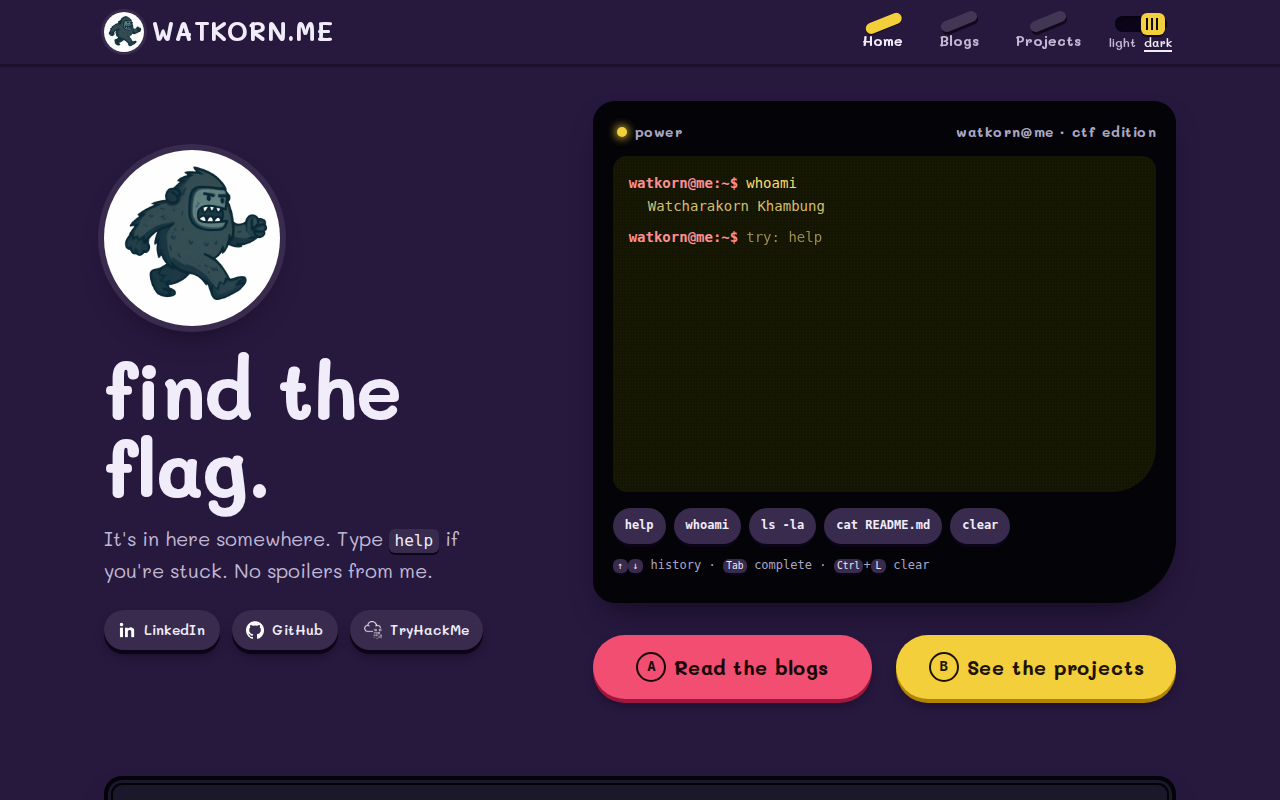
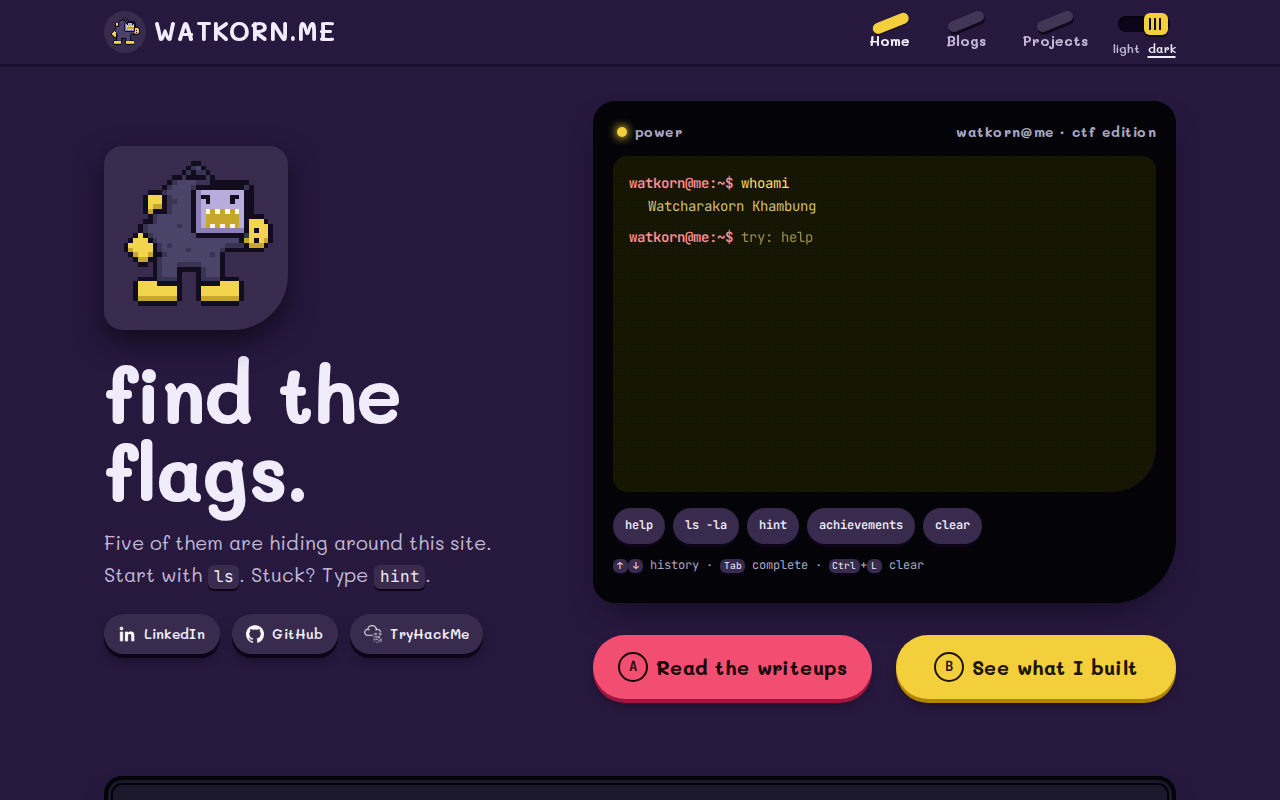
Rewrite site copy and the "My Website" case study
- New UI copy across home (dare, About, A/B keys, cat README.md,
  blogs/projects output, command-not-found), Achievements, Blogs,
  Projects, 404, footer credit, hints, meta descriptions and noscript;
  "find the flag." -> "find the flags." (also in the OG image)
- "My Website" project rewritten as a case study: goals, pipeline,
  security (A+, strict CSP, 0 vulns), the CTF, design, measured
  numbers, lessons
- README screenshots recaptured with the pixel yeti and Mali loaded

Footer quote "Flags don't hide..." kept (brand commitment in PRODUCT.md).

Claude-Session: https://claude.ai/code/session_01KYM9UMdoA1ZJFFUWYDgszJ

diff --git a/src/pages/Home.jsx b/src/pages/Home.jsx
@@ -258,8 +258,11 @@ export default function Home() {
 
     // cat README.md
     if (/^cat\s+README\.md$/i.test(input)) {
-      return `Hi, I'm Watcharakorn Khambung!
-This is my portfolio site. I build tools, write CTF writeups, and explore cybersecurity.`;
+      return `# watkorn
+security hobbyist · CTF player · tool builder
+
+5 flags are hidden on this site. flag.txt is the free one.
+next: hint · achievements · ls blogs`;
     }
 
     // simple commands
@@ -278,8 +281,8 @@ This is my portfolio site. I build tools, write CTF writeups, and explore cybers
     if (lc === "date") return new Date().toString();
     if (lc === "help")
       return "Available commands: whoami, pwd, ls, ls -la, cat README.md, cat flag.txt, date, echo, help, clear, projects, blogs";
-    if (lc === "projects") return "Cybersecurity-Tools  CTF-Challenges  Web-Apps";
-    if (lc === "blogs") return "CTF-Writeups  Security-Tips  Tutorials";
+    if (lc === "projects") return `${projects.map((p) => p.slug).join("  ")}\n(open <name> to read one)`;
+    if (lc === "blogs") return `${[...blogs].reverse().map((b) => b.slug).join("  ")}\n(open <name> to read one)`;
 
     // composite simple "&&" support
     if (input.includes("&&")) {
@@ -291,7 +294,7 @@ This is my portfolio site. I build tools, write CTF writeups, and explore cybers
       return outs.join("\n");
     }
 
-    return `Command not found: ${input}`;
+    return `watkorn: command not found: ${input.split(/\s+/)[0]}  (try: help)`;
   };
 
   const runCommand = (cmdText) => {
@@ -377,10 +380,10 @@ This is my portfolio site. I build tools, write CTF writeups, and explore cybers
         <div className="player">
           <Yeti bg="screen" walk={Boolean(achievement)} className="player__avatar" title="watkorn's yeti mascot" />
           <h1 id="home-title" className="player__title">
-            find the flag.
+            find the flags.
           </h1>
           <p className="player__dare">
-            It's in here somewhere. Type <kbd>help</kbd> if you're stuck. No spoilers from me.
+            Five of them are hiding around this site. Start with <kbd>ls</kbd>. Stuck? Type <kbd>hint</kbd>.
           </p>
           <ul className="socials" role="list">
             {socials.map((s) => (
@@ -474,11 +477,11 @@ This is my portfolio site. I build tools, write CTF writeups, and explore cybers
           <nav className="ab-row" aria-label="Continue">
             <Link to="/blogs" className="key key--a key--lg">
               <span className="key__badge">A</span>
-              Read the blogs
+              Read the writeups
             </Link>
             <Link to="/projects" className="key key--b key--lg">
               <span className="key__badge">B</span>
-              See the projects
+              See what I built
             </Link>
           </nav>
         </div>
@@ -490,9 +493,9 @@ This is my portfolio site. I build tools, write CTF writeups, and explore cybers
           <h2 id="about-title" className="dialog__name">
             watkorn
           </h2>
-          <p>I love working on cybersecurity projects just for fun and to challenge myself.</p>
-          <p>I build tools and code to try things out, learn new stuff, and solve problems I run into.</p>
-          <p>It's all about experimenting, testing, and improving my skills while having fun.</p>
+          <p>hey, I'm Watcharakorn. Online I'm watkorn. I break things for fun: CTFs, TryHackMe rooms, and whatever tool I'm building this week.</p>
+          <p>When something finally clicks, I write it up here so future-me (and you) can skip the painful part.</p>
+          <p>Want to say hi? LinkedIn and GitHub are up top. Or skip the small talk and go find the flags.</p>
         </div>
         <span className="dialog__next" aria-hidden="true">
           <Icon name="caret" size={18} />

diff --git a/src/pages/Achievements.jsx b/src/pages/Achievements.jsx
@@ -17,13 +17,13 @@ export default function Achievements() {
     e.preventDefault();
     if (!flag.trim()) return;
     const level = await checkFlag(flag);
-    if (!level) setStatus({ kind: "err", text: "Nope, that's not a flag (yet)." });
+    if (!level) setStatus({ kind: "err", text: "Nope, not a flag. Yet." });
     else if (solved.includes(level.id)) setStatus({ kind: "info", text: `Already solved: ${level.title}.` });
     else {
       const next = [...solved, level.id];
       setSolved(next);
       saveSolved(next);
-      setStatus({ kind: "ok", text: `Correct! ${level.title} (+${level.points} pts).` });
+      setStatus({ kind: "ok", text: `Correct! ${level.title}, +${level.points} pts. Nice.` });
       setFlag("");
     }
   };
@@ -36,7 +36,7 @@ export default function Achievements() {
     resetSolved();
     setSolved([]);
     setArmReset(false);
-    setStatus({ kind: "info", text: "Progress reset. Good luck, again." });
+    setStatus({ kind: "info", text: "Progress wiped. Fresh start." });
   };
 
   const done = solved.length === LEVELS.length;
@@ -45,13 +45,13 @@ export default function Achievements() {
     <PageWrapper
       title="Achievements"
       path="/achievements"
-      description="Five flags hidden around watkorn.me. How many can you find?"
+      description="Five flags are hidden around watkorn.me. How many can you find?"
     >
       <header className="page-head ach-head">
         <div>
           <h1 className="page-head__title">Achievements</h1>
           <p className="page-head__lede">
-            Five flags are hidden around this site. Find them, then submit them here or in the terminal with{" "}
+            Five flags are hiding around this site. Found one? Submit it here, or in the terminal with{" "}
             <kbd>submit</kbd>.
           </p>
         </div>
@@ -62,7 +62,7 @@ export default function Achievements() {
         <strong>
           {score(solved)}/{TOTAL_POINTS} pts
         </strong>{" "}
-        · {solved.length} of {LEVELS.length} flags {done && "· all found, you're a legend"}
+        · {solved.length} of {LEVELS.length} flags {done && "· all five. legend."}
       </p>
 
       <form className="ach-submit" onSubmit={onSubmit}>
@@ -126,7 +126,7 @@ export default function Achievements() {
           {armReset ? "Tap again to reset" : "Reset progress"}
         </button>
       </div>
-      <p className="ach-note">Progress is saved only in this browser. Nothing is sent anywhere.</p>
+      <p className="ach-note">Your progress lives only in this browser. Nothing gets sent anywhere.</p>
     </PageWrapper>
   );
 }

diff --git a/src/ctf/ctf.js b/src/ctf/ctf.js
@@ -7,35 +7,35 @@ export const LEVELS = [
     id: "warmup",
     title: "Warm-up",
     points: 10,
-    hint: "Some files are just lying around in the home folder. Try ls.",
+    hint: "Some files are just lying around in the home folder. Try ls, then cat.",
[1 lines of base64/hex data omitted]
   },
   {
     id: "dotfiles",
     title: "Hidden in plain sight",
     points: 20,
-    hint: "ls shows files. ls -la shows *all* files. Then decode what you find.",
+    hint: "ls shows files. ls -la shows *all* of them. What you find there is encoded, not encrypted.",
[1 lines of base64/hex data omitted]
   },
   {
     id: "source",
     title: "View source",
     points: 30,
-    hint: "The page you see isn't the whole page. Ctrl+U, and remember Caesar liked 13.",
+    hint: "The page you see isn't the whole page. Try Ctrl+U, and remember Caesar liked 13.",
[1 lines of base64/hex data omitted]
   },
   {
     id: "robots",
     title: "Robots only",
     points: 40,
-    hint: "Every well-behaved crawler reads one file before anything else.",
+    hint: "Every well-behaved crawler reads one file before anything else. Be badly behaved.",
[1 lines of base64/hex data omitted]
   },
   {
     id: "sprite",
     title: "Pixel secrets",
     points: 50,
-    hint: "The yeti is an SVG. Open it on its own and look past the pixels.",
+    hint: "The yeti is an SVG. Open the file on its own and look past the pixels.",
[1 lines of base64/hex data omitted]
   },
 ];

diff --git a/src/pages/Blogs.jsx b/src/pages/Blogs.jsx
@@ -31,10 +31,10 @@ export default function Blogs() {
   const pick = (f) => setParams(f ? { tag: f } : {}, { replace: true });
 
   return (
-    <PageWrapper path="/blogs" title="Blogs" description="CTF writeups, notes, and things I broke on purpose.">
+    <PageWrapper path="/blogs" title="Blogs" description="CTF writeups and notes from things I broke on purpose. Spoilers inside.">
       <header className="page-head">
         <h1 className="page-head__title">Blogs</h1>
-        <p className="page-head__lede">Writeups, notes, and things I broke on purpose. Spoilers inside, obviously.</p>
+        <p className="page-head__lede">CTF writeups and notes from things I broke on purpose. Spoilers inside, obviously.</p>
       </header>
 
       {FILTERS.length > 0 && (
@@ -54,7 +54,7 @@ export default function Blogs() {
         groups={groups}
         basePath="/blogs"
         idPrefix="year"
-        emptyText={active ? `Nothing tagged "${active}" yet.` : "No posts yet. The first writeup is loading…"}
+        emptyText={active ? `Nothing tagged "${active}" yet.` : "No posts yet. The first writeup is still compiling."}
       />
     </PageWrapper>
   );

diff --git a/index.html b/index.html
@@ -9,7 +9,7 @@
     <meta property="og:image" content="https://watkorn.me/og.png" />
     <meta property="og:image:width" content="1200" />
     <meta property="og:image:height" content="630" />
-    <meta property="og:image:alt" content="The watkorn pixel yeti next to the words find the flag" />
+    <meta property="og:image:alt" content="The watkorn pixel yeti next to the words find the flags" />
     <meta name="twitter:card" content="summary_large_image" />
     <link rel="icon" href="/favicon.svg" type="image/svg+xml" />
     <link rel="icon" href="/favicon-32.png" sizes="32x32" type="image/png" />
@@ -24,7 +24,7 @@
   </head>
   <body>
     <!-- note to self (level 3): jngxbea{i13j_f0hep3_o3s0e3_l0h_u4px}  ·  rot13, obviously -->
-    <noscript>This site needs JavaScript to run the terminal. Sorry, no flag without it.</noscript>
+    <noscript>The terminal (and all five flags) need JavaScript. The writeups read fine without it.</noscript>
     <div id="root"><!--app-html--></div>
     <script type="module" src="/src/index.jsx"></script>
   </body>

diff --git a/src/components/PageWrapper.jsx b/src/components/PageWrapper.jsx
@@ -3,7 +3,8 @@ import React from "react";
 import { Helmet } from "react-helmet-async";
 
 export const SITE_URL = "https://watkorn.me";
-const DEFAULT_DESC = "Watcharakorn Khambung (watkorn): CTF writeups, security tools, and a terminal with a flag in it.";
+const DEFAULT_DESC =
+  "Watcharakorn Khambung (watkorn): CTF writeups, security tools, and a terminal with five flags hidden in it.";
 
 // path = route without trailing slash; canonical URLs use the trailing-slash form GitHub Pages serves
 export default function PageWrapper({
@@ -15,7 +16,7 @@ export default function PageWrapper({
   children,
   className = "",
 }) {
-  const fullTitle = title && title !== "WATKORN.ME" ? `${title} · WATKORN.ME` : "WATKORN.ME · find the flag";
+  const fullTitle = title && title !== "WATKORN.ME" ? `${title} · WATKORN.ME` : "WATKORN.ME · find the flags";
   const desc = description || DEFAULT_DESC;
   const url = path != null ? `${SITE_URL}${path === "/" ? "/" : `${path}/`}` : null;
   return (

diff --git a/src/pages/Projects.jsx b/src/pages/Projects.jsx
@@ -15,16 +15,16 @@ const groups = sortedCategories.map(({ category, data }) => ({
 
 export default function Projects() {
   return (
-    <PageWrapper path={"/projects"} title="Projects" description="Tools and side projects by watkorn.">
+    <PageWrapper path={"/projects"} title="Projects" description="Security tools and side projects by watkorn, built to learn how things work (and break).">
       <header className="page-head">
         <h1 className="page-head__title">Projects</h1>
-        <p className="page-head__lede">Tools I built to try things out. Some useful, all fun.</p>
+        <p className="page-head__lede">Stuff I built to learn how things work, and how they break. Some useful, all fun.</p>
       </header>
       <GroupedIndex
         groups={groups}
         basePath="/projects"
         idPrefix="category"
-        emptyText="Inventory empty. Projects coming soon."
+        emptyText="Inventory empty. Something's in the forge."
       />
     </PageWrapper>
   );

diff --git a/src/pages/NotFound.jsx b/src/pages/NotFound.jsx
@@ -13,15 +13,15 @@ export default function NotFound() {
       <div className="bezel">
         <div className="lcd lcd--center">
           <p className="lcd__big">GAME OVER</p>
-          <p>404: this page is not in the cartridge.</p>
+          <p>404: this level isn't in the cartridge.</p>
         </div>
       </div>
       <div className="button-row">
         <Link to="/" className="key key--a">
-          Continue from Home
+          Back to start
         </Link>
         <Link to="/blogs" className="key">
-          Read the blogs
+          Read the writeups
         </Link>
       </div>
     </PageWrapper>

diff --git a/src/components/DetailTemplate.jsx b/src/components/DetailTemplate.jsx
@@ -117,7 +117,7 @@ export default function DetailTemplate({ meta, type, allMeta }) {
       .then((data) => setContent(data))
       .catch((err) => {
         console.error("Failed to load content:", err);
-        setError("Couldn't load this page. Check your connection and refresh.");
+        setError("This page didn't load. Check your connection and refresh.");
         setContent(null);
       })
       .finally(() => setLoading(false));

diff --git a/src/components/Footer.jsx b/src/components/Footer.jsx
@@ -10,7 +10,7 @@ export default function Footer() {
         {quote}
       </p>
       <p className="site-footer__copy">
-        &copy; {new Date().getFullYear()} Watcharakorn Khambung. Built static, served from GitHub Pages.
+        &copy; {new Date().getFullYear()} Watcharakorn Khambung. Static site, no trackers, built in the open on GitHub.
       </p>
     </footer>
   );

diff --git a/brand/build.py b/brand/build.py
@@ -192,7 +192,7 @@ def og_image():
     d = ImageDraw.Draw(img)
     font = mali_bold()
     d.text((600, 150), "find the", font=ImageFont.truetype(font, 104), fill=hex_rgba(ink))
-    d.text((600, 262), "flag.", font=ImageFont.truetype(font, 104), fill=hex_rgba(ink))
+    d.text((600, 262), "flags.", font=ImageFont.truetype(font, 104), fill=hex_rgba(ink))
     d.text((604, 408), "CTF writeups · security tools", font=ImageFont.truetype(font, 34), fill=hex_rgba(ink))
     d.text((604, 470), "WATKORN.ME", font=ImageFont.truetype(font, 40), fill=hex_rgba(berry))
     img.convert("RGB").save(ROOT / "public/og.png", optimize=True)

diff --git a/content/projects/create-website.md b/content/projects/create-website.md
@@ -1,38 +1,78 @@
 ---
 title: My Website
-description: Step-by-step guide to building a portfolio website
+description: "watkorn.me: a static, A+-hardened portfolio that is also a tiny CTF. How it's built, secured and shipped."
 category: Web
 order: 1
 github: https://github.com/watkorn/watkorn.me
 screenshots:
   - src: /screenshot_light.png
-    alt: Light theme screenshot
-    label: Light Theme
+    alt: Home page in the light theme, with the pixel yeti, the "find the flags." dare and the LCD terminal
+    label: Light theme
   - src: /screenshot_dark.png
-    alt: Dark theme screenshot
-    label: Dark Theme
+    alt: Home page in the dark theme, with the grape console shell and the backlit terminal
+    label: Dark theme
 ---
 
-## Why This Website?
+This site is my home for CTF writeups and side projects, and a challenge in its own right. The home page is a terminal with **five flags** hidden around the site. If you're a security person, the fastest way to get to know me is to try to break my website.
 
-A home for my CTF writeups and side projects, and a small challenge in its own right:
-the home page is a terminal with a flag hidden in it.
+## Goals
 
-## Key Features
+1. **Play first, read second, hire third.** The terminal is the front door. Writeups come next, then projects and contact links.
+2. **Writing a post should never mean touching layout code.** A writeup is a Markdown file and a `git push`.
+3. **Keep the attack surface close to zero.** No server, no database, no third-party scripts.
 
-- A playable terminal with history, Tab completion and quick commands on phones
-- Blogs and projects written as Markdown files, built into a static site
-- "Handheld Quest" design with light and dark themes, from 320 px phones up to wide desktops
-- Syntax highlighting, copy buttons, reading time and a reading progress bar on posts
-- Deployed by GitHub Actions to GitHub Pages, with a strict Content-Security-Policy
+## How it works
 
-## Design Choices
+```
+content/*.md  ─▶  scripts/content.mjs  ─▶  JSON  ─▶  Vite + React
+                                                   │
+                     prerender every route to HTML ◀┘  (+ sitemap, RSS, CSP)
+                                                   │
+          GitHub Actions: build → Playwright tests → publish to gh-pages
+                                                   │
+                  GitHub Pages  ◀──  Cloudflare (TLS, HSTS, security headers)
+```
 
-Built with React and Tailwind CSS. Every colour, font and spacing value comes from one set of design tokens,
-so the light and dark themes stay consistent. The site is fully static: no server, no database,
-and no third-party scripts.
+- **Content:** blog posts and projects are Markdown with frontmatter. At build time, [marked](https://marked.js.org/) and highlight.js turn them into HTML, so no Markdown parser ships to the browser. Drafts are visible in dev and excluded from production.
+- **Pages:** React 18 + React Router 7 on Vite. Every route is **prerendered to its own HTML file**, so posts are indexable and link previews in Discord or LINE show a real title and image. React then takes over for the interactive bits.
+- **Deploys:** every push to `main` builds the site and runs **Playwright smoke tests on desktop and mobile**. Only if they pass does it publish the static files to the `gh-pages` branch. A failing test means the live site doesn't change.
 
-## Next Steps
+## Security
 
-- More CTF writeups
-- More tools in the projects section
+Being a security person's website, it had better hold up:
+
+- **A+ on [securityheaders.com](https://securityheaders.com/?q=watkorn.me&followRedirects=on).** Cloudflare adds HSTS, `X-Frame-Options`, `Referrer-Policy`, `Permissions-Policy` and COOP, which GitHub Pages can't send.
+- **A strict Content-Security-Policy** on every page: `script-src 'self'` and `style-src` without `'unsafe-inline'`. So no inline scripts **or** inline styles, and a test fails the build if any page triggers a CSP violation.
+- **No source maps in production.**
+- **Zero known vulnerable dependencies:** moving from Create React App to Vite took `npm audit` from 62 findings to 0. Dependabot keeps it that way, and every GitHub Action is pinned to a commit SHA.
+- **Visitor input is never rendered as HTML.** All Markdown is rendered at build time from files in the repo.
+
+## The CTF inside
+
+The terminal speaks a little shell: `ls -la`, `cd`, `cat`, `open <post>`, `hint`, `submit <flag>`, with history and Tab completion. Five levels (10 to 50 points) are hidden in places a player should learn to look. Flags are checked by **SHA-256 hash only**, so reading the JavaScript doesn't hand over the answers. Progress lives on the [achievements page](/achievements), stored only in your browser.
+
+A test proves every flag is reachable on the built site and matches its hash, so I can't accidentally ship an unsolvable level.
+
+## Design: Handheld Quest
+
+The look is a pocket game console. The page is the console's plastic shell: dandelion yellow by day, grape at night. Content sits on "screens" with the handheld's big bottom-right curve, the terminal is an LCD, and every button is a rubber key that physically presses down.
+
+The mascot is a **32×32 pixel yeti** drawn in code. It has 8 recolourable layers, a 2-frame walk cycle, and a Logo Lab for exporting it in any palette. Everything comes from one set of design tokens, so both themes stay consistent. The site works from 320 px phones up. I used the [Hallmark](https://github.com/Nutlope/hallmark) and [Impeccable](https://github.com/pbakaus/impeccable) design skills to avoid the generic "AI portfolio" look.
+
+## Numbers
+
+- Lighthouse (local): **Performance 97 · Accessibility 100 · SEO 100**
+- About **82 KB** of gzipped JavaScript; each post's content loads as its own small chunk
+- Pixel yeti: **8 KB** for both frames of the sprite; every icon is under 10 KB
+
+## What I learned
+
+- **Prerendering beats a SPA for a content site.** Hash URLs were invisible to search engines and link previews.
+- **A strict CSP pays for itself.** Dropping `'unsafe-inline'` surfaced two inline styles hiding in the prerendered HTML, and now a test keeps them from coming back.
+- **Tests for the fun stuff matter too.** An unsolvable CTF level is a bug.
+
+## Stack
+
+React 18 · React Router 7 · Vite · Tailwind CSS · marked · highlight.js · Playwright · Lighthouse CI · GitHub Actions · GitHub Pages · Cloudflare
+
+The source is open on GitHub (link below). Found something? Tell me, or better yet, find the flags first.
